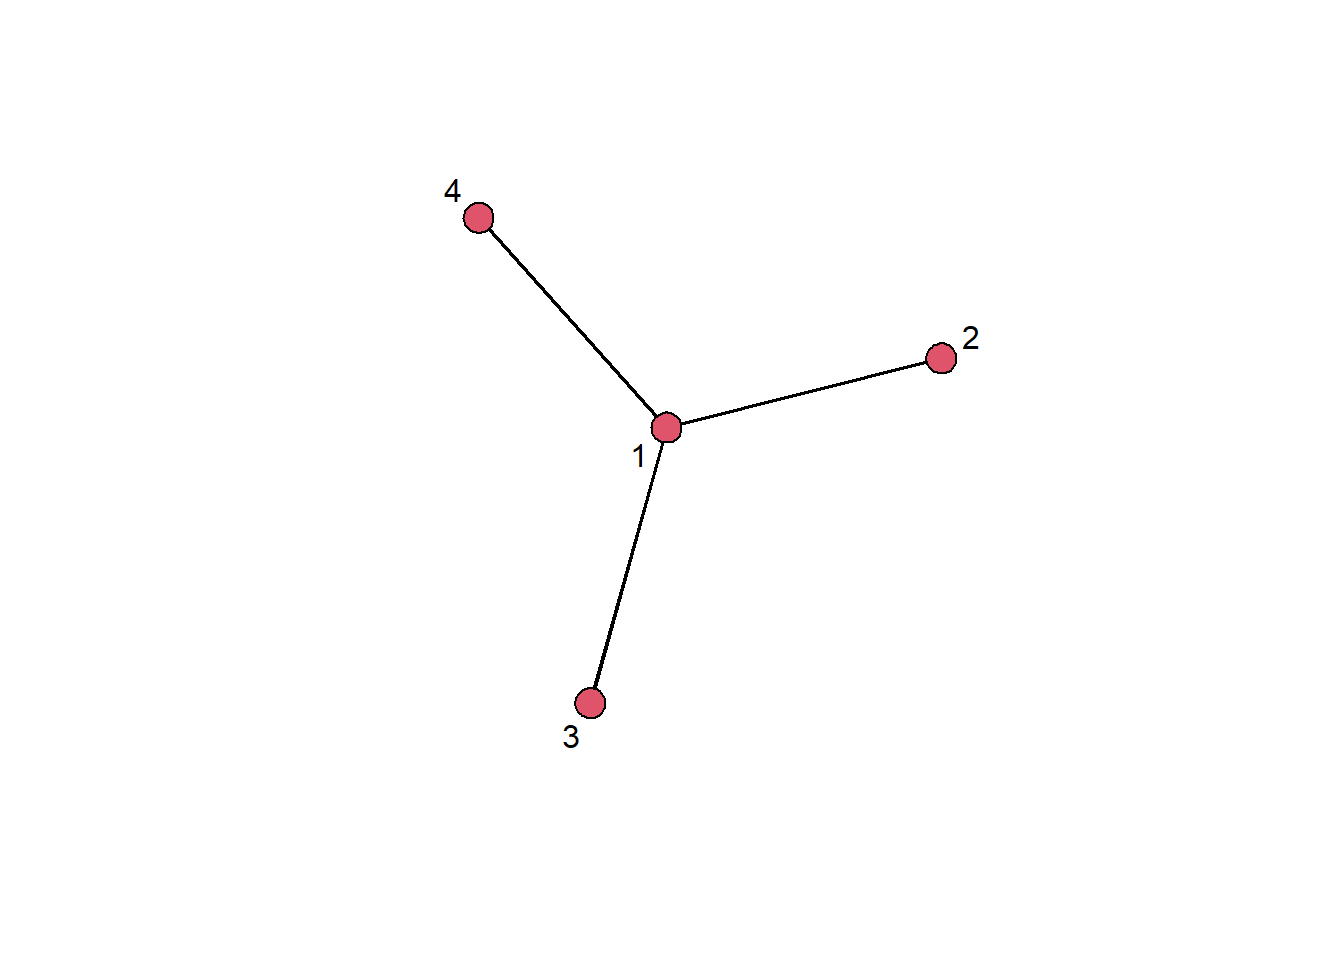
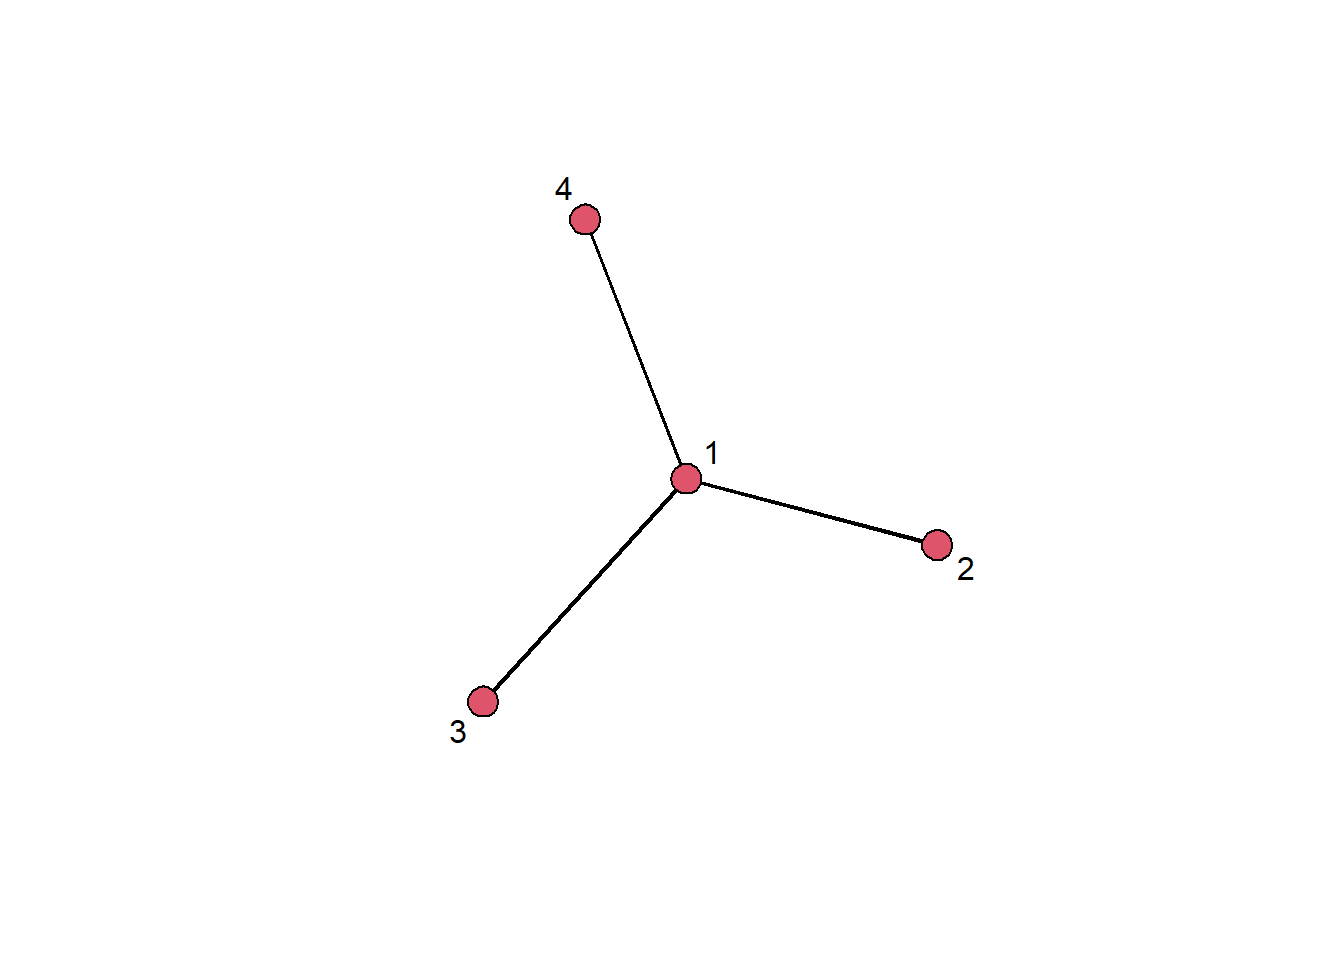
Built site for gh-pages

diff --git a/12-communities.html b/12-communities.html
@@ -370,9 +370,10 @@ pre > code.sourceCode > span > a:first-child::before { text-decoration: underlin
 <h3 class="anchored" data-anchor-id="inspect-result">Inspect result</h3>
 <p>We can now inspect our detected communities by coloring nodes in the network graph:</p>
 <div class="cell">
-<div class="sourceCode cell-code" id="cb7"><pre class="sourceCode r code-with-copy"><code class="sourceCode r"><span id="cb7-1"><a href="#cb7-1" aria-hidden="true" tabindex="-1"></a><span class="fu">gplot</span>(flomarriage, <span class="at">gmode=</span><span class="st">"graph"</span>,</span>
-<span id="cb7-2"><a href="#cb7-2" aria-hidden="true" tabindex="-1"></a>      <span class="at">vertex.col=</span>memb, </span>
-<span id="cb7-3"><a href="#cb7-3" aria-hidden="true" tabindex="-1"></a>      <span class="at">displaylabels=</span><span class="cn">TRUE</span>)</span></code><button title="Copy to Clipboard" class="code-copy-button"><i class="bi"></i></button></pre></div>
+<div class="sourceCode cell-code" id="cb7"><pre class="sourceCode r code-with-copy"><code class="sourceCode r"><span id="cb7-1"><a href="#cb7-1" aria-hidden="true" tabindex="-1"></a><span class="fu">gplot</span>(flomarriage, </span>
+<span id="cb7-2"><a href="#cb7-2" aria-hidden="true" tabindex="-1"></a>      <span class="at">gmode=</span><span class="st">"graph"</span>, </span>
+<span id="cb7-3"><a href="#cb7-3" aria-hidden="true" tabindex="-1"></a>      <span class="at">vertex.col=</span>memb, </span>
+<span id="cb7-4"><a href="#cb7-4" aria-hidden="true" tabindex="-1"></a>      <span class="at">displaylabels=</span><span class="cn">TRUE</span>, <span class="at">label.pos=</span><span class="dv">5</span>)</span></code><button title="Copy to Clipboard" class="code-copy-button"><i class="bi"></i></button></pre></div>
 <div class="cell-output-display">
 <div>
 <figure class="figure">
@@ -412,10 +413,10 @@ pre > code.sourceCode > span > a:first-child::before { text-decoration: underlin
 <div class="sourceCode cell-code" id="cb11"><pre class="sourceCode r code-with-copy"><code class="sourceCode r"><span id="cb11-1"><a href="#cb11-1" aria-hidden="true" tabindex="-1"></a>flomarriage_ig <span class="ot">&lt;-</span> <span class="fu">asIgraph</span>(flomarriage)</span>
 <span id="cb11-2"><a href="#cb11-2" aria-hidden="true" tabindex="-1"></a>flomarriage_ig</span></code><button title="Copy to Clipboard" class="code-copy-button"><i class="bi"></i></button></pre></div>
 <div class="cell-output cell-output-stdout">
-<pre><code>IGRAPH f787110 U--- 15 20 -- 
+<pre><code>IGRAPH b9991a0 U--- 15 20 -- 
 + attr: na (v/l), priorates (v/n), totalties (v/n), vertex.names (v/c),
 | wealth (v/n), na (e/l)
-+ edges from f787110:
++ edges from b9991a0:
  [1]  1-- 9  2-- 6  2-- 7  2-- 9  3-- 5  3-- 9  4-- 7  4--11  4--14  5--11
 [11]  5--14  7-- 8  7--15  9--12  9--13  9--15 10--13 11--14 12--14 12--15</code></pre>
 </div>
@@ -433,7 +434,7 @@ pre > code.sourceCode > span > a:first-child::before { text-decoration: underlin
 <div class="sourceCode cell-code" id="cb15"><pre class="sourceCode r code-with-copy"><code class="sourceCode r"><span id="cb15-1"><a href="#cb15-1" aria-hidden="true" tabindex="-1"></a><span class="fu">gplot</span>(flomarriage, </span>
 <span id="cb15-2"><a href="#cb15-2" aria-hidden="true" tabindex="-1"></a>      <span class="at">gmode=</span><span class="st">"graph"</span>, </span>
 <span id="cb15-3"><a href="#cb15-3" aria-hidden="true" tabindex="-1"></a>      <span class="at">vertex.col=</span>membership_louvain, </span>
-<span id="cb15-4"><a href="#cb15-4" aria-hidden="true" tabindex="-1"></a>      <span class="at">displaylabels=</span>T, <span class="at">label.pos=</span><span class="dv">5</span>)</span></code><button title="Copy to Clipboard" class="code-copy-button"><i class="bi"></i></button></pre></div>
+<span id="cb15-4"><a href="#cb15-4" aria-hidden="true" tabindex="-1"></a>      <span class="at">displaylabels=</span><span class="cn">TRUE</span>, <span class="at">label.pos=</span><span class="dv">5</span>)</span></code><button title="Copy to Clipboard" class="code-copy-button"><i class="bi"></i></button></pre></div>
 <div class="cell-output-display">
 <div>
 <figure class="figure">

diff --git a/06-network-types.html b/06-network-types.html
@@ -436,11 +436,11 @@ window.Quarto = {
 <div class="sourceCode cell-code" id="cb8"><pre class="sourceCode r code-with-copy"><code class="sourceCode r"><span id="cb8-1"><a href="#cb8-1" aria-hidden="true" tabindex="-1"></a>adj_weighted <span class="ot">&lt;-</span> <span class="fu">matrix</span>(<span class="fu">rnorm</span>(<span class="dv">16</span>), <span class="at">nrow =</span> <span class="dv">4</span>, <span class="at">ncol =</span> <span class="dv">4</span>)</span>
 <span id="cb8-2"><a href="#cb8-2" aria-hidden="true" tabindex="-1"></a>adj_weighted</span></code><button title="Copy to Clipboard" class="code-copy-button"><i class="bi"></i></button></pre></div>
 <div class="cell-output cell-output-stdout">
-<pre><code>            [,1]       [,2]       [,3]       [,4]
-[1,] -0.48919292 -0.6143342 -0.2508456 -0.7589464
-[2,]  2.47647551  0.6152643 -1.5491330 -0.2294421
-[3,]  0.07616462  0.4827681 -0.5042523 -0.5826422
-[4,] -0.58590979 -0.5694376 -0.4376402  0.4194428</code></pre>
+<pre><code>           [,1]       [,2]       [,3]          [,4]
+[1,]  0.1713139 -1.7715350  1.2991695  0.7521626551
+[2,] -0.1018933  0.0500760  1.6947802  0.3371616288
+[3,] -0.3799781  0.7162077 -0.2425720  0.4156102367
+[4,]  0.4359230 -0.6286307 -0.1554461 -0.0009468474</code></pre>
 </div>
 </div>
 <p>By default, the <code>network(...)</code> function ignores edge values/weights. We here accordingly specify <code>ignore.eval = FALSE</code> and specify a name for our weights by setting <code>names.eval = "name"</code>:</p>
@@ -478,10 +478,10 @@ window.Quarto = {
 <span id="cb12-3"><a href="#cb12-3" aria-hidden="true" tabindex="-1"></a>adj_dicho</span></code><button title="Copy to Clipboard" class="code-copy-button"><i class="bi"></i></button></pre></div>
 <div class="cell-output cell-output-stdout">
 <pre><code>     [,1] [,2] [,3] [,4]
-[1,]    0    0    0    0
-[2,]    1    1    0    0
-[3,]    0    1    0    0
-[4,]    0    0    0    1</code></pre>
+[1,]    0    0    1    1
+[2,]    0    0    1    1
+[3,]    0    1    0    1
+[4,]    1    0    0    0</code></pre>
 </div>
 </div>
 <p>In the dichotomized matrix, all cells with a value of <span class="math inline">\(0.3\)</span> or more are set to <span class="math inline">\(1\)</span> while all cells below the threshold are set to a <span class="math inline">\(0\)</span>. We can then pass the dichotomized adjacency matrix to the network constructor again:</p>
